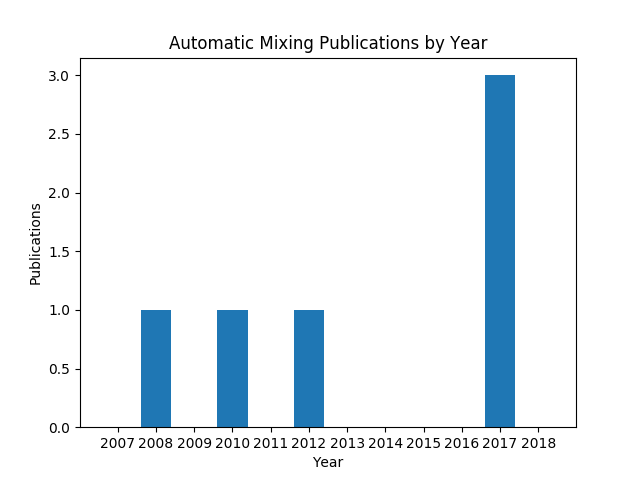
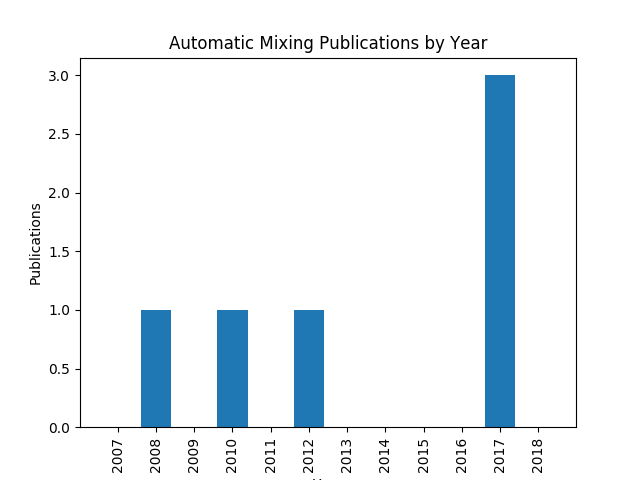
more work on statistics

Changed region(s): [[0.1562, 0.9062, 0.875, 1.0]]

diff --git a/mixingpapers.py b/mixingpapers.py
@@ -37,12 +37,30 @@ def calculate_statistics(filename):
     # plot publications by year
     years_num = [int(i) for i in sorted(years.keys())]
     pubs_per_year = [i[1] for i in sorted(years.items())]
+    plt.figure(0)
     plt.bar(years_num, pubs_per_year, align='center')
-    plt.xticks(years_num, years_num)
+    plt.xticks(years_num, years_num, rotation='vertical')
     plt.xlabel('Year')
     plt.ylabel('Publications')
     plt.title('Automatic Mixing Publications by Year')
     plt.savefig('figs/papers_by_year.png')
+
+    # plot pie chart of approaches
+    plt.figure(1)
+    labels = approaches.keys()
+    sizes = approaches.values()
+    plt.pie(sizes, labels=labels, autopct='%1.1f%%', shadow=True, startangle=90)
+    plt.axis('equal')
+    plt.savefig('figs/approaches_breakdown.png')
+
+    # plot pie chart of categories
+    plt.figure(2)
+    labels = categories.keys()
+    sizes = categories.values()
+    #explode = (0, 0.1, 0, 0)  # only "explode" the 2nd slice (i.e. 'Hogs')
+    plt.pie(sizes, labels=labels, autopct='%1.1f%%', shadow=True, startangle=90)
+    plt.axis('equal')
+    plt.savefig('figs/categories_breakdown.png')
 
 def sort_papers_by_year(filename):
     with open(filename, "r+") as mixing:
@@ -98,13 +116,19 @@ def build_readme(filename):
         for section in sections:
             readme_file.write(sections[section])
         
+        stats = """# Statistics\n"""
+        stats += """![pubs_by_year]: https://github.com/csteinmetz1/AutomaticMixingPapers/blob/master/figs/papers_by_year.png\n"""
+        stats += """![categories]: https://github.com/csteinmetz1/AutomaticMixingPapers/blob/master/figs/categories_breakdown.png\n"""
+        stats += """![approaches]: https://github.com/csteinmetz1/AutomaticMixingPapers/blob/master/figs/approaches_breakdown.png\n"""
+        readme_file.write(stats)
+        
     num_papers = mixing.line_num - 1
     return num_papers
 
 def main(filename="mixingpapers.tsv"):
     sort_papers_by_year(filename)
-    num_papers = build_readme(filename)
     calculate_statistics(filename)
+    num_papers = build_readme(filename)
     print("Compiled " + str(num_papers) + " papers")
 
 if __name__ == "__main__":

diff --git a/README.md b/README.md
@@ -35,3 +35,7 @@ Systems that incorporate more than one procees are categorized as `integrated`.
 |2017|[Analysis and prediction of the audio feature space when mixing raw recordings into individual stems](http://www.aes.org/e-lib/browse.cfm?elib=19245)|M. A. Martínez Ramírez and J. D. Reiss|ML|[Yes](https://github.com/mchijmma/audioFeatures-stemMixing)|
 |2010|[Advanced automatic mixing tools for music](https://qmro.qmul.ac.uk/jspui/handle/123456789/614)|E. Perez Gonzalez|GT|No|
 |2008|[Improved control for selective minimization of masking using interchannel dependancy effects](http://legacy.spa.aalto.fi/dafx08/papers/dafx08_15.pdf)|E. Perez Gonzalez and J. D. Reiss|GT|No|
+# Statistics
+![pubs_by_year]: https://github.com/csteinmetz1/AutomaticMixingPapers/blob/master/figs/papers_by_year.png
+![categories]: https://github.com/csteinmetz1/AutomaticMixingPapers/blob/master/figs/categories_breakdown.png
+![approaches]: https://github.com/csteinmetz1/AutomaticMixingPapers/blob/master/figs/approaches_breakdown.png
